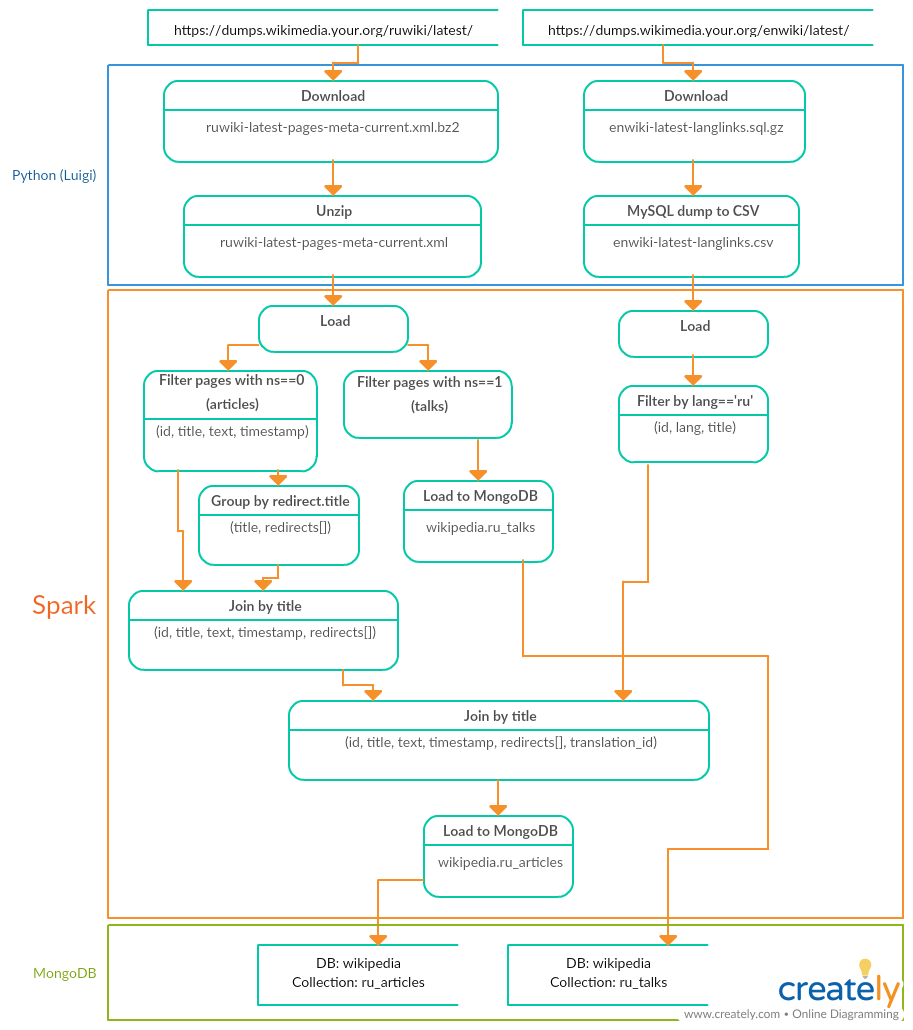
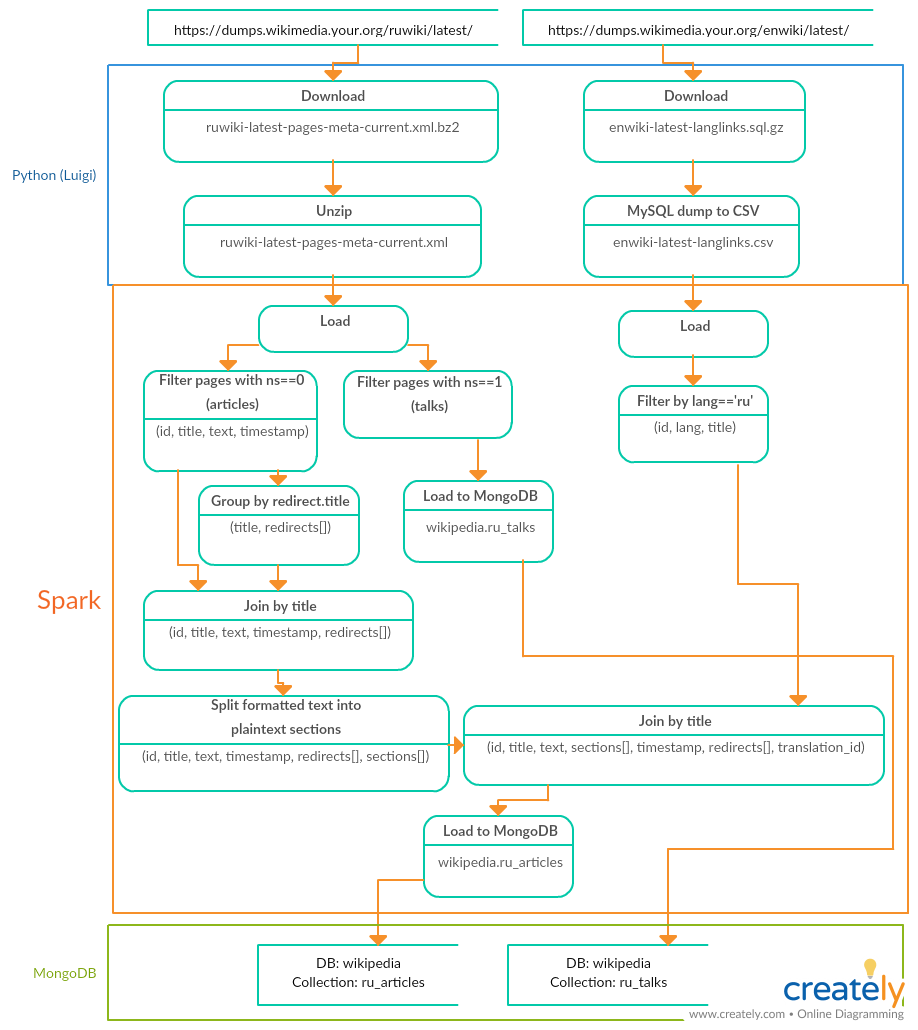
Added fields

diff --git a/README.md b/README.md
@@ -37,5 +37,28 @@ python wiki_users.py
 ## How it works
 ### Articles and talks
 A luigi pipeline is set up to download wikipedia XML page dumps and language link SQL dumps. They are transformed and combined using PySpark and then loaded into MongoDB. 
+Fields of the created collection wikipedia.en_articles (wikipedia.ru_articles):
+- id (int) // wikipedia page ID
+- title (str)
+- text (str) // text in wiki markup
+- sections (str[]) // cleaned article sections
+- timestamp (datetime)
+- redirects (str[]) // titles of the pages that redirect to the article
+- translation_id (int) // ID of the page in another language
+
 ### Users
 wiki_users.py is set up to run continuously, fetching users from the wikipedia API and updating user records in MongoDB. If the script is stopped abruptly, it will continue from the last updated user in the database on the next run.
+API docs: https://www.mediawiki.org/wiki/API:Allusers
+Fields:
+- userid
+- name
+- blockid
+- blockedby
+- blockedbyid
+- blockedtimestamp
+- blockreason
+- blockexpiry
+- editcount
+- registration
+- groups
+- updated // added field to track progress
